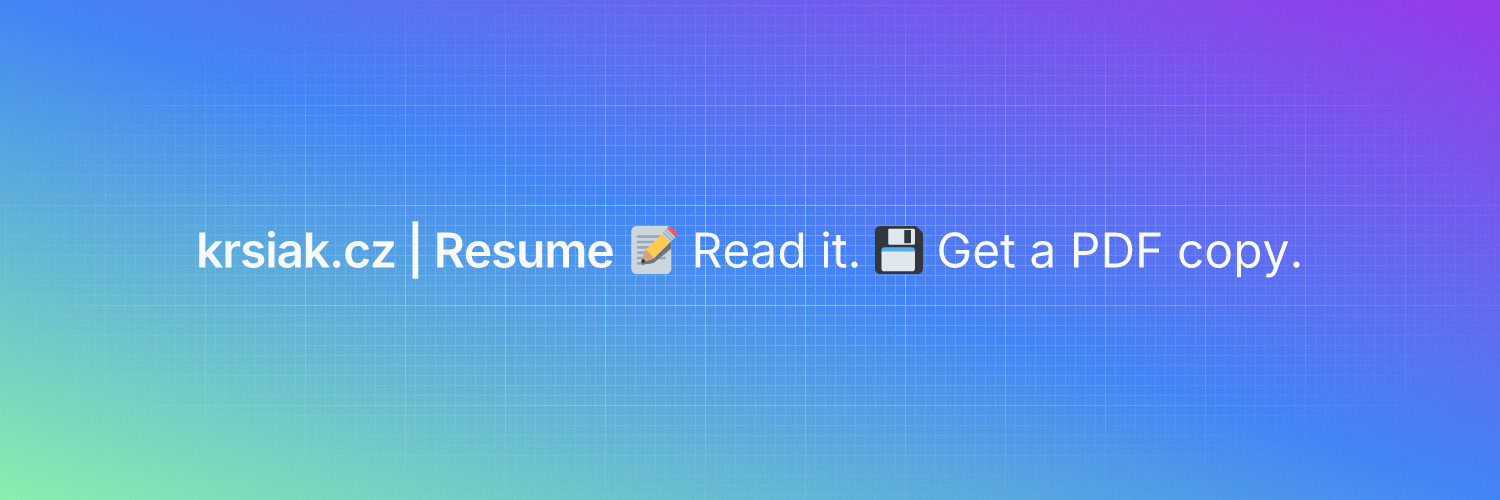
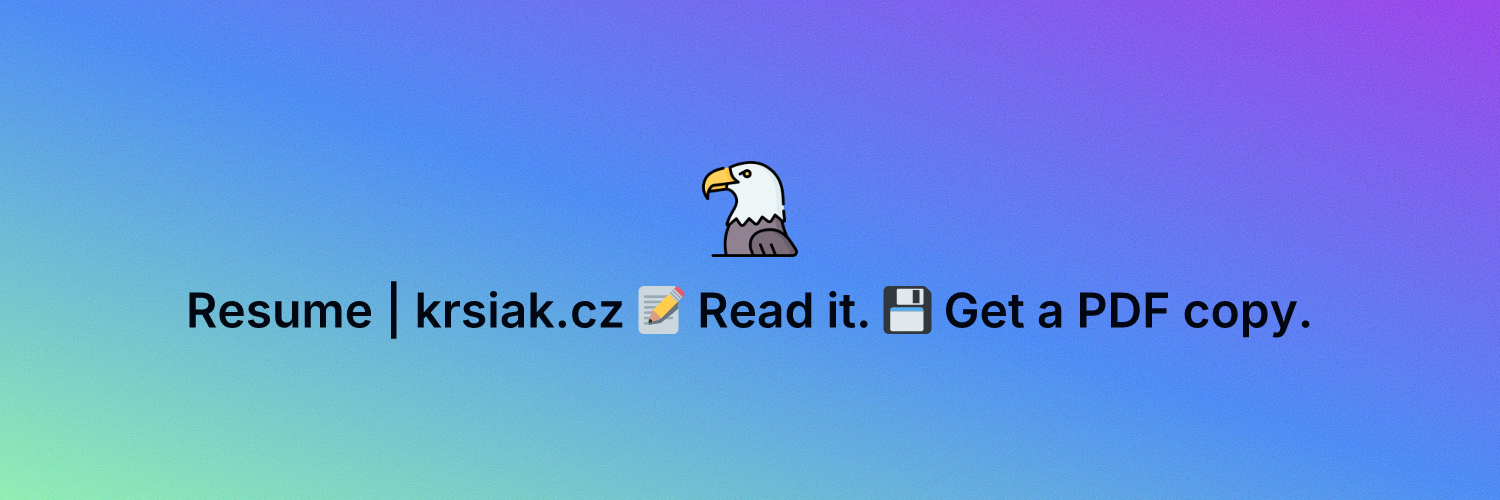
refactor(metadata): 👷 OG and Twitter images (#357)
* refactor(metadata): 👷 og and twitter images

* fix(image): 🐛 links

Changed region(s): [[0.1227, 0.3, 0.8893, 0.69]]

diff --git a/lib/data/metadata/pages/metaDataHome.ts b/lib/data/metadata/pages/metaDataHome.ts
@@ -1,8 +1,13 @@
 import { Metadata } from 'next'
 
-import { COMMON_VALUES, META_HOME } from '@/localization/english'
+import { COMMON_VALUES, META_HOME, TEXT } from '@/localization/english'
+
+import { PAGES_URL } from '@/lib/utils/constants/urls/pageUrls'
 
 import { getKeywordsString } from '@/lib/utils/helpers/getMetaKeywords'
+
+import homeOG from '@/public/images/png/open-graph/pages/home/home-og.png'
+import homeTwitter from '@/public/images/png/open-graph/pages/home/home-twitter.png'
 
 export const metaDataHome: Metadata = {
   title: META_HOME.title,
@@ -13,10 +18,10 @@ export const metaDataHome: Metadata = {
     description: `I am ${COMMON_VALUES.reactDeveloper} based in ${COMMON_VALUES.czechRepublic}. I specialize in ${COMMON_VALUES.javaScript}, ${COMMON_VALUES.typeScript}, ${COMMON_VALUES.react}, and ${COMMON_VALUES.next}. With 6 years of experience creating modern web applications, I focus on delivering high-quality, scalable, and reliable code.`,
     images: [
       {
-        url: '/public/images/png/open-graph/pages/home/home-og.png',
+        url: homeOG.src,
       },
     ],
-    url: 'https://krsiak.cz',
+    url: PAGES_URL.fullWebsiteUrl,
   },
   twitter: {
     card: 'summary_large_image',
@@ -24,9 +29,9 @@ export const metaDataHome: Metadata = {
     description: `I am ${COMMON_VALUES.reactDeveloper} based in ${COMMON_VALUES.czechRepublic}. I specialize in ${COMMON_VALUES.javaScript}, ${COMMON_VALUES.typeScript}, ${COMMON_VALUES.react}, and ${COMMON_VALUES.next}. With 6 years of experience creating modern web applications, I focus on delivering high-quality, scalable, and reliable code.`,
     images: [
       {
-        url: '/public/images/png/open-graph/pages/home/home-twitter.png',
+        url: homeTwitter.src,
       },
     ],
-    site: '@krsiak_daniel',
+    site: TEXT.twitter,
   },
 }

diff --git a/lib/data/metadata/pages/projects/metaDataPersonalProjects.ts b/lib/data/metadata/pages/projects/metaDataPersonalProjects.ts
@@ -1,0 +1,37 @@
+import { Metadata } from 'next'
+
+import { META_PROJECTS_OVERVIEW_PERSONAL, TEXT } from '@/localization/english'
+
+import { PAGES_URL } from '@/lib/utils/constants/urls/pageUrls'
+
+import { getKeywordsString } from '@/lib/utils/helpers/getMetaKeywords'
+
+import personalProjectsOverviewOG from '@/public/images/png/open-graph/pages/personal-projects/personal-projects-og.png'
+import personalProjectsOverviewTwitter from '@/public/images/png/open-graph/pages/personal-projects/personal-projects-twitter.png'
+
+export const metaDataPersonalProjects: Metadata = {
+  title: META_PROJECTS_OVERVIEW_PERSONAL.title,
+  description: META_PROJECTS_OVERVIEW_PERSONAL.description,
+  keywords: getKeywordsString(META_PROJECTS_OVERVIEW_PERSONAL.keywords),
+  openGraph: {
+    title: META_PROJECTS_OVERVIEW_PERSONAL.title,
+    description: META_PROJECTS_OVERVIEW_PERSONAL.description,
+    images: [
+      {
+        url: personalProjectsOverviewOG.src,
+      },
+    ],
+    url: PAGES_URL.fullWebsiteUrl + PAGES_URL.personal.mainUrl,
+  },
+  twitter: {
+    card: 'summary_large_image',
+    title: META_PROJECTS_OVERVIEW_PERSONAL.title,
+    description: META_PROJECTS_OVERVIEW_PERSONAL.description,
+    images: [
+      {
+        url: personalProjectsOverviewTwitter.src,
+      },
+    ],
+    site: TEXT.twitter,
+  },
+}

diff --git a/lib/data/metadata/pages/metaDataResume.ts b/lib/data/metadata/pages/metaDataResume.ts
@@ -1,8 +1,13 @@
 import { Metadata } from 'next'
 
-import { META_RESUME } from '@/localization/english'
+import { META_RESUME, TEXT } from '@/localization/english'
+
+import { PAGES_URL } from '@/lib/utils/constants/urls/pageUrls'
 
 import { getKeywordsString } from '@/lib/utils/helpers/getMetaKeywords'
+
+import resumeOG from '@/public/images/png/open-graph/pages/resume/resume-og.png'
+import resumeTwitter from '@/public/images/png/open-graph/pages/resume/resume-twitter.png'
 
 export const metaDataResume: Metadata = {
   title: META_RESUME.title,
@@ -13,10 +18,10 @@ export const metaDataResume: Metadata = {
     description: META_RESUME.description,
     images: [
       {
-        url: '/public/images/png/open-graph/pages/resume/resume-og.png',
+        url: resumeOG.src,
       },
     ],
-    url: 'https://krsiak.cz/resume',
+    url: PAGES_URL.fullWebsiteUrl + PAGES_URL.resume,
   },
   twitter: {
     card: 'summary_large_image',
@@ -24,9 +29,9 @@ export const metaDataResume: Metadata = {
     description: META_RESUME.description,
     images: [
       {
-        url: '/public/images/png/open-graph/pages/resume/resume-twitter.png',
+        url: resumeTwitter.src,
       },
     ],
-    site: '@krsiak_daniel',
+    site: TEXT.twitter,
   },
 }

diff --git a/lib/data/metadata/pages/projects/metaDataWorkExperience.ts b/lib/data/metadata/pages/projects/metaDataWorkExperience.ts
@@ -1,0 +1,37 @@
+import { Metadata } from 'next'
+
+import { META_PROJECTS_OVERVIEW_WORK, TEXT } from '@/localization/english'
+
+import { PAGES_URL } from '@/lib/utils/constants/urls/pageUrls'
+
+import { getKeywordsString } from '@/lib/utils/helpers/getMetaKeywords'
+
+import workExperienceOG from '@/public/images/png/open-graph/pages/work-experience/work-experience-og.png'
+import workExperienceTwitter from '@/public/images/png/open-graph/pages/work-experience/work-experience-twitter.png'
+
+export const metaDataWorkExperience: Metadata = {
+  title: META_PROJECTS_OVERVIEW_WORK.title,
+  description: META_PROJECTS_OVERVIEW_WORK.description,
+  keywords: getKeywordsString(META_PROJECTS_OVERVIEW_WORK.keywords),
+  openGraph: {
+    title: META_PROJECTS_OVERVIEW_WORK.title,
+    description: META_PROJECTS_OVERVIEW_WORK.description,
+    images: [
+      {
+        url: workExperienceOG.src,
+      },
+    ],
+    url: PAGES_URL.fullWebsiteUrl + PAGES_URL.work.mainUrl,
+  },
+  twitter: {
+    card: 'summary_large_image',
+    title: META_PROJECTS_OVERVIEW_WORK.title,
+    description: META_PROJECTS_OVERVIEW_WORK.description,
+    images: [
+      {
+        url: workExperienceTwitter.src,
+      },
+    ],
+    site: TEXT.twitter,
+  },
+}

diff --git a/lib/data/metadata/pages/metaDataTestimonials.ts b/lib/data/metadata/pages/metaDataTestimonials.ts
@@ -1,11 +1,37 @@
 import { Metadata } from 'next'
 
-import { META_TESTIMONIALS } from '@/localization/english'
+import { META_TESTIMONIALS, TEXT } from '@/localization/english'
+
+import { PAGES_URL } from '@/lib/utils/constants/urls/pageUrls'
 
 import { getKeywordsString } from '@/lib/utils/helpers/getMetaKeywords'
+
+import testimonialsOG from '@/public/images/png/open-graph/pages/testimonials/testimonials-og.png'
+import testimonialsTwitter from '@/public/images/png/open-graph/pages/testimonials/testimonials-twitter.png'
 
 export const metaDataTestimonials: Metadata = {
   title: META_TESTIMONIALS.title,
   description: META_TESTIMONIALS.description,
   keywords: getKeywordsString(META_TESTIMONIALS.keywords),
+  openGraph: {
+    title: META_TESTIMONIALS.title,
+    description: META_TESTIMONIALS.description,
+    images: [
+      {
+        url: testimonialsOG.src,
+      },
+    ],
+    url: PAGES_URL.fullWebsiteUrl + PAGES_URL.testimonials,
+  },
+  twitter: {
+    card: 'summary_large_image',
+    title: META_TESTIMONIALS.title,
+    description: META_TESTIMONIALS.description,
+    images: [
+      {
+        url: testimonialsTwitter.src,
+      },
+    ],
+    site: TEXT.twitter,
+  },
 }

diff --git a/lib/data/metadata/pages/metaDataStatusPage.ts b/lib/data/metadata/pages/metaDataStatusPage.ts
@@ -1,11 +1,37 @@
 import { Metadata } from 'next'
 
-import { META_STATUS_PAGE } from '@/localization/english'
+import { META_STATUS_PAGE, TEXT } from '@/localization/english'
+
+import { PAGES_URL } from '@/lib/utils/constants/urls/pageUrls'
 
 import { getKeywordsString } from '@/lib/utils/helpers/getMetaKeywords'
+
+import statusPageOG from '@/public/images/png/open-graph/pages/status-page/status-page-og.png'
+import statusPageTwitter from '@/public/images/png/open-graph/pages/status-page/status-page-twitter.png'
 
 export const metaDataStatusPage: Metadata = {
   title: META_STATUS_PAGE.title,
   description: META_STATUS_PAGE.description,
   keywords: getKeywordsString(META_STATUS_PAGE.keywords),
+  openGraph: {
+    title: META_STATUS_PAGE.title,
+    description: META_STATUS_PAGE.description,
+    images: [
+      {
+        url: statusPageOG.src,
+      },
+    ],
+    url: PAGES_URL.fullWebsiteUrl + PAGES_URL.statusPage,
+  },
+  twitter: {
+    card: 'summary_large_image',
+    title: META_STATUS_PAGE.title,
+    description: META_STATUS_PAGE.description,
+    images: [
+      {
+        url: statusPageTwitter.src,
+      },
+    ],
+    site: TEXT.twitter,
+  },
 }

diff --git a/app/work-experience/page.tsx b/app/work-experience/page.tsx
@@ -10,7 +10,7 @@ import BreadCrumbs from '@/components/shared/Breadcrumbs'
 import CallToActionResume from '@/components/shared/call-to-action/CallToActionResume'
 import Heading4 from '@/components/shared/Heading4'
 
-import { metaDataProjectsOverviewWork } from '@/lib/data/metadata/pages/projects/metaDataProjectsOverviewWork'
+import { metaDataWorkExperience } from '@/lib/data/metadata/pages/projects/metaDataWorkExperience'
 import { projectsWorkFrontEnd } from '@/lib/data/pages/projects/work/projects-overview/front-end/workFrontEnd'
 import { projectsWorkLocalization } from '@/lib/data/pages/projects/work/projects-overview/localization/workLocalization'
 import { projectsWorkQA } from '@/lib/data/pages/projects/work/projects-overview/quality-assurance/workQA'
@@ -25,7 +25,7 @@ import { PAGES_URL } from '@/lib/utils/constants/urls/pageUrls'
 import { MONTHS, YEARS } from '@/lib/utils/constants/yearsExperience'
 
 export const metadata = {
-  ...metaDataProjectsOverviewWork,
+  ...metaDataWorkExperience,
 }
 
 const ProjectsWork: FC = (): JSX.Element => {

diff --git a/app/personal-projects/page.tsx b/app/personal-projects/page.tsx
@@ -8,7 +8,7 @@ import ProjectSection from '@/components/pages/projects/overview-page/ProjectSec
 import BreadCrumbs from '@/components/shared/Breadcrumbs'
 import CallToActionGitHub from '@/components/shared/call-to-action/CallToActionGitHub'
 
-import { metaDataProjectsOverviewPersonal } from '@/lib/data/metadata/pages/projects/metaDataProjectsOverviewPersonal'
+import { metaDataPersonalProjects } from '@/lib/data/metadata/pages/projects/metaDataPersonalProjects'
 import { projectsPersonalNext } from '@/lib/data/pages/projects/personal/projects-overview/next/personalNext'
 import { projectsPersonalReact } from '@/lib/data/pages/projects/personal/projects-overview/react/personalReact'
 
@@ -19,7 +19,7 @@ import { ID } from '@/lib/utils/constants/ids/elementIds'
 import { PAGES_URL } from '@/lib/utils/constants/urls/pageUrls'
 
 export const metadata = {
-  ...metaDataProjectsOverviewPersonal,
+  ...metaDataPersonalProjects,
 }
 
 const ProjectsPersonal: FC = (): JSX.Element => {

diff --git a/lib/data/metadata/shared/defaultMetaData.ts b/lib/data/metadata/shared/defaultMetaData.ts
@@ -2,18 +2,18 @@ import { Metadata } from 'next'
 
 import { COMMON_VALUES, META_DEFAULT } from '@/localization/english'
 
-import { FULL_WEBSITE_URL } from '@/lib/utils/constants/urls/pageUrls'
+import { PAGES_URL } from '@/lib/utils/constants/urls/pageUrls'
 
 import { getKeywordsString } from '@/lib/utils/helpers/getMetaKeywords'
 
 export const defaultMetaData: Metadata = {
-  metadataBase: new URL(FULL_WEBSITE_URL),
+  metadataBase: new URL(PAGES_URL.fullWebsiteUrl),
   title: META_DEFAULT.title,
   description: META_DEFAULT.description,
   keywords: getKeywordsString(META_DEFAULT.keywords),
   generator: META_DEFAULT.generator,
   applicationName: META_DEFAULT.applicationName,
-  authors: [{ name: COMMON_VALUES.nameDanielKrsiak, url: FULL_WEBSITE_URL }],
+  authors: [{ name: COMMON_VALUES.nameDanielKrsiak, url: PAGES_URL.fullWebsiteUrl }],
   referrer: 'origin-when-cross-origin',
   manifest: '/manifest.webmanifest',
   robots: 'index, follow',

diff --git a/lib/utils/constants/urls/pageUrls.ts b/lib/utils/constants/urls/pageUrls.ts
@@ -6,6 +6,7 @@ export const URL_WORK_EXPERIENCE = '/work-experience'
 export const URL_PERSONAL_PROJECTS = '/personal-projects'
 
 export const PAGES_URL = {
+  fullWebsiteUrl: FULL_WEBSITE_URL,
   localhost: 'http://localhost:3000',
   home: '/',
   resume: '/resume',

diff --git a/localization/english.ts b/localization/english.ts
@@ -31,6 +31,7 @@ export const SOCIAL_LINKS = {
   linkedIn: 'My LinkedIn',
   resumePDF: 'Resume PDF',
   gitHub: 'GitHub Code',
+  twitter: '@krsiak_daniel',
 }
 
 export const HOME = {
